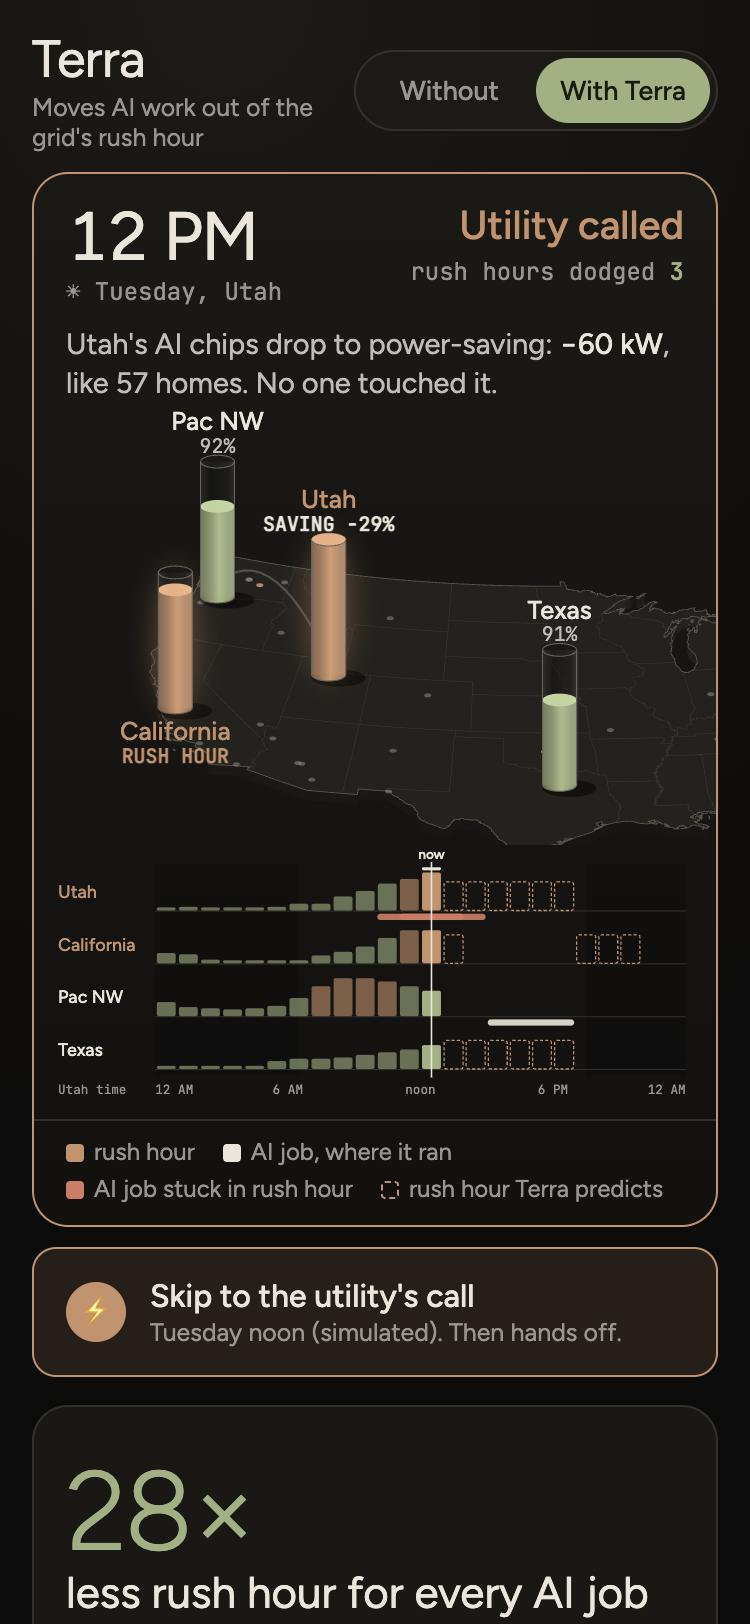
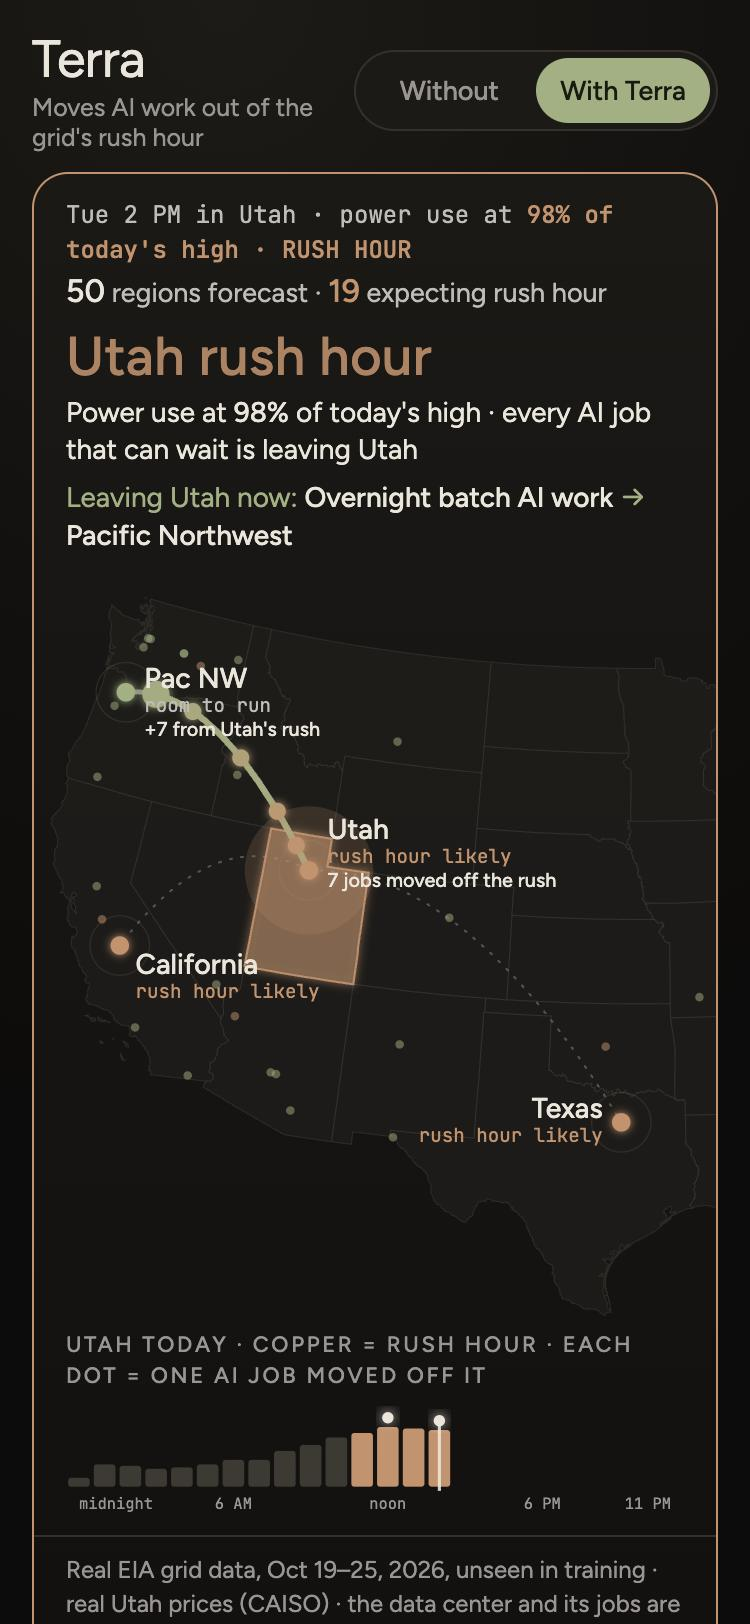
docs: new phone map screenshot from Utah's rush hour

diff --git a/README.md b/README.md
@@ -15,11 +15,11 @@ Terra forecasts every US power grid's rush hour a day ahead and moves AI work ar
 
 <table>
 <tr>
-<td><img src="docs/phone-map.jpg" width="300" alt="Terra's live map during a utility call: Utah saving 29%, California in rush hour, a job flying to the Pacific Northwest"></td>
+<td><img src="docs/phone-map.jpg" width="300" alt="Terra's live map in Utah's rush hour: AI jobs stream to the Pacific Northwest while California and Texas are in rush hour too"></td>
 <td><img src="docs/phone-compare.jpg" width="300" alt="Without vs with Terra: 1.14 h vs 0.04 h of rush hour per job"></td>
 </tr>
 <tr>
-<td align="center"><sub>A utility call in Utah. Terra slows its chips 29% and sends work to the Pacific NW, skipping California's rush hour.</sub></td>
+<td align="center"><sub>Utah's rush hour. Every AI job that can wait streams to the Pacific NW, skipping California and Texas, also in rush hour.</sub></td>
 <td align="center"><sub>Without vs with Terra, on real 2026 grid data the model never saw.</sub></td>
 </tr>
 </table>
